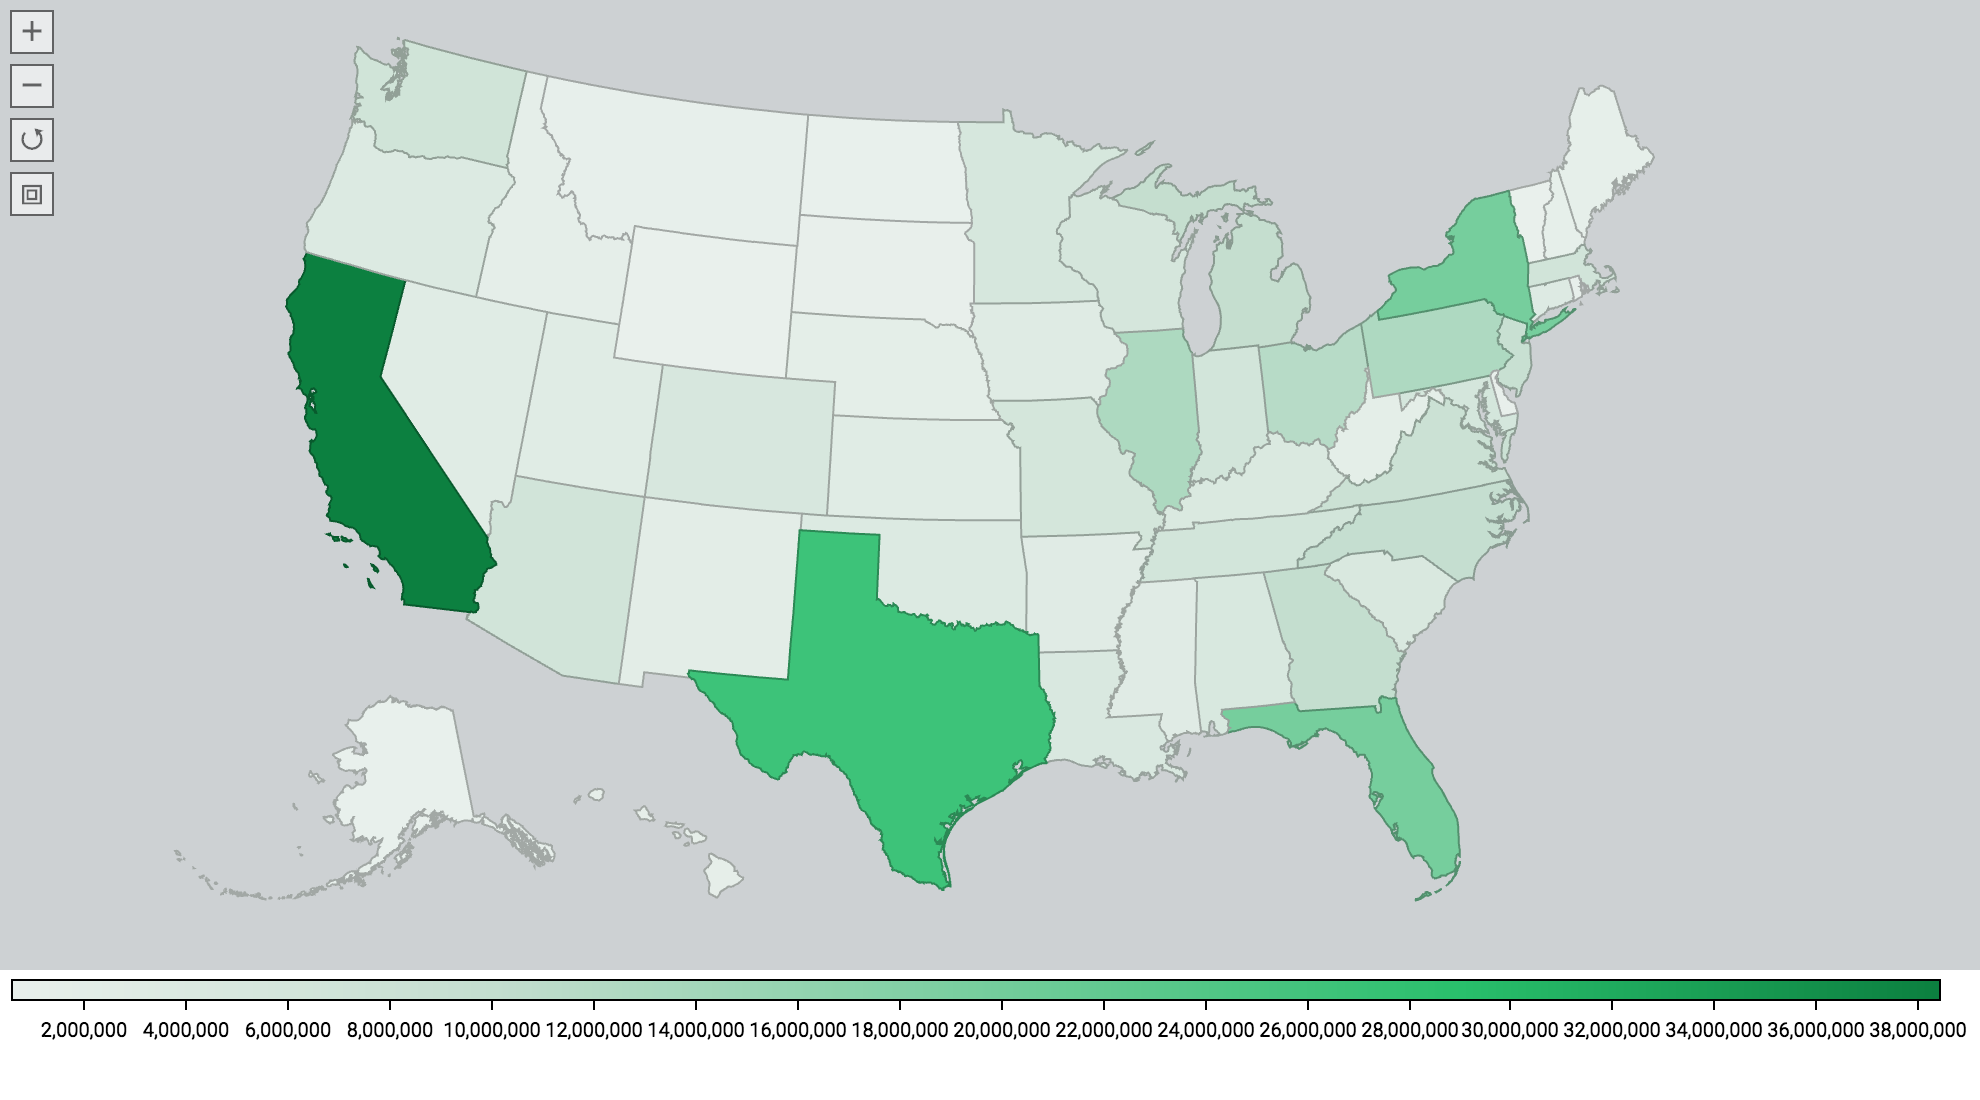
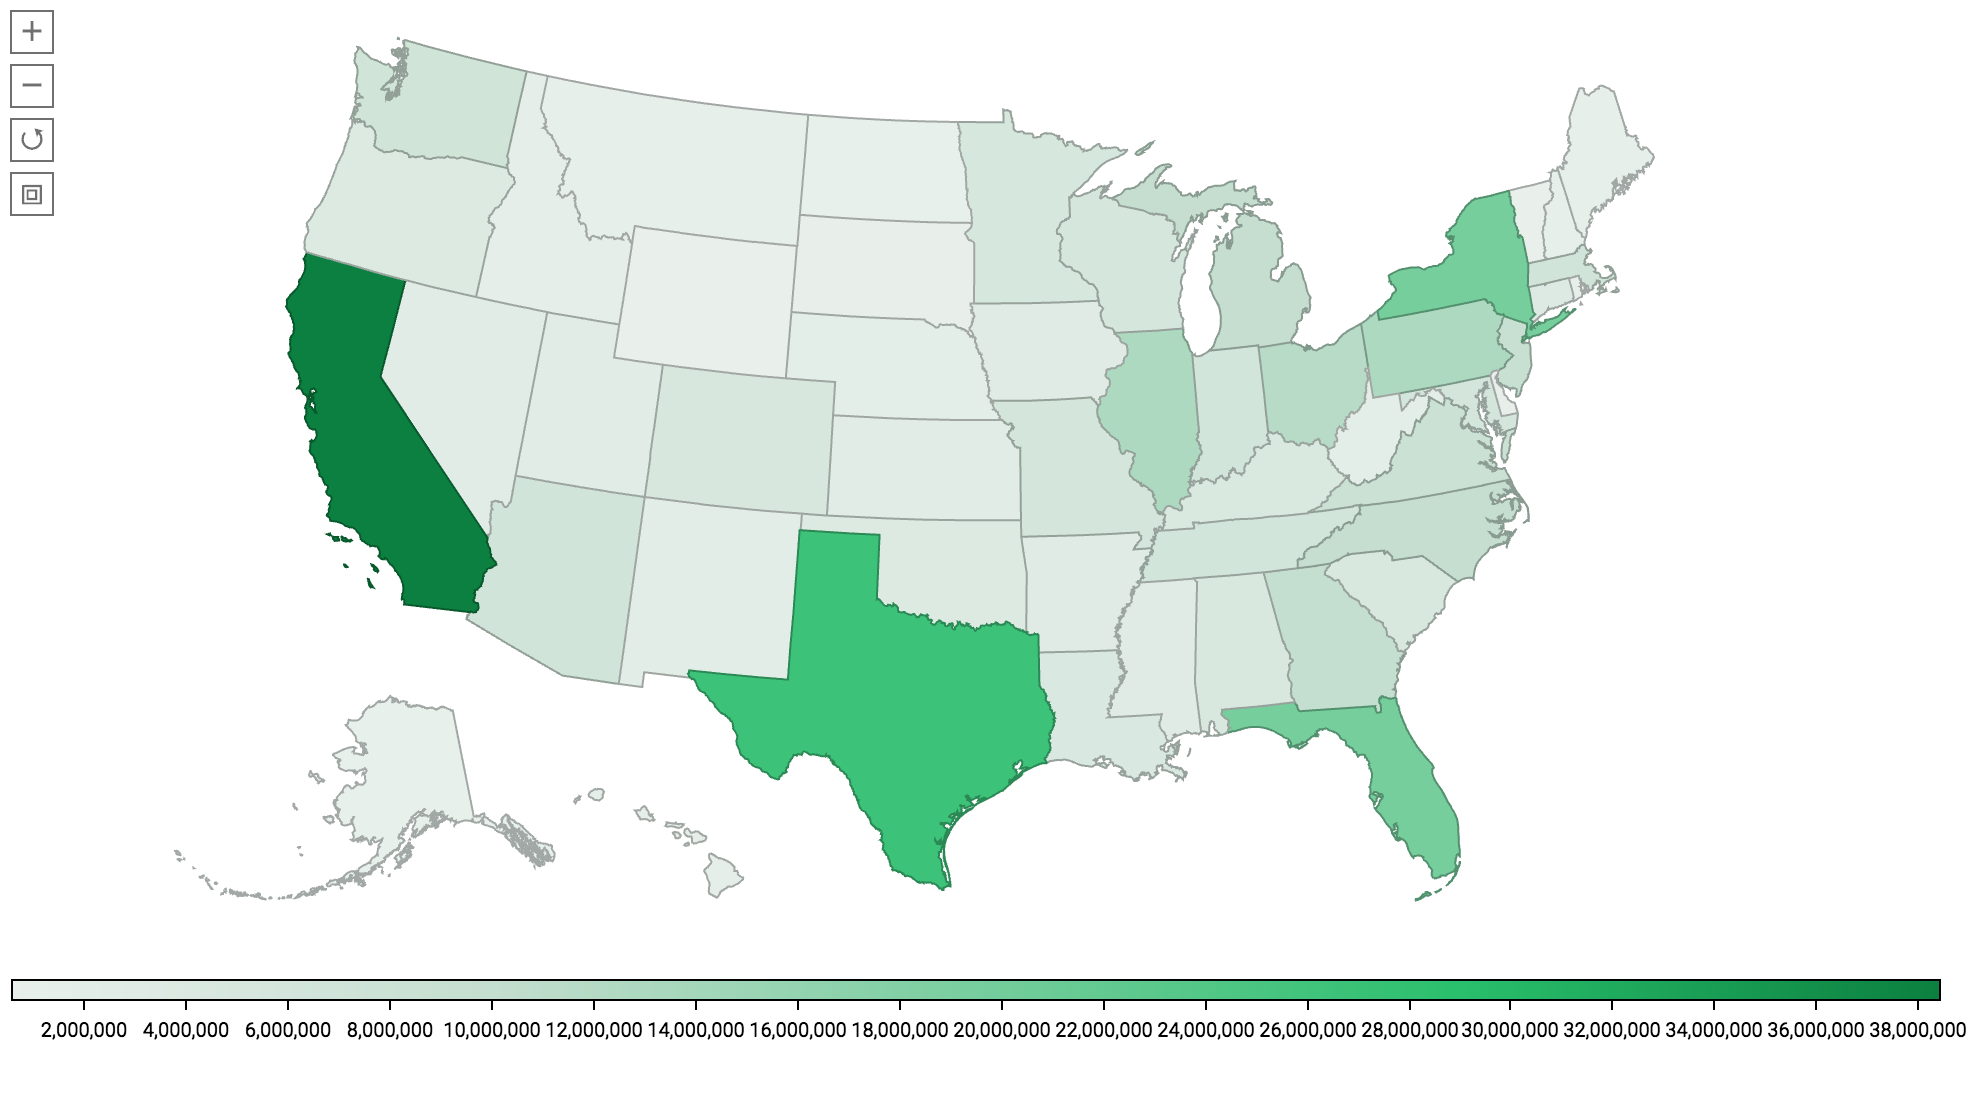
d3plus-geomap examples

diff --git a/_examples/d3plus-geomap/change-projection/embed.html b/_examples/d3plus-geomap/change-projection/embed.html
@@ -33,6 +33,7 @@
 
   chart
     .projection("geoAlbersUsa")
+    .ocean("transparent")
     .render();
 
 </script>

diff --git a/_examples/d3plus-geomap/change-projection/index.md b/_examples/d3plus-geomap/change-projection/index.md
@@ -2,7 +2,7 @@
 title: Changing Map Projections
 width: 990
 height: 550
-time: 1519770361711
+time: 1519770389584
 date: February 27, 2018
 ---
 
@@ -29,6 +29,7 @@ We can provide the name of our custom projection to the [projection](http://d3pl
 ```js
 chart
   .projection("geoAlbersUsa")
+  .ocean("transparent")
   .render();
 ```
 
